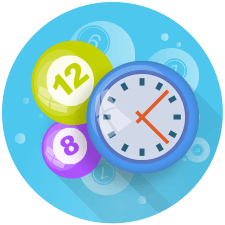
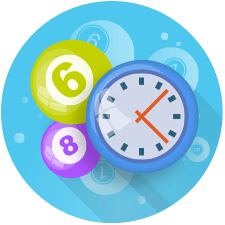
更新彩種icon

diff --git a/static/frist/css/lhc.css b/static/frist/css/lhc.css
@@ -126,7 +126,7 @@
 }*/
 
 /* 上方橫式選單 样式微调 */
-#lhc .lhc_tab.hd { position: relative;v/*right: 0.3rem;*/ height: .9rem; width: 7.1rem; overflow: hidden; margin: 0 auto 0.35rem; border-radius: 0.5rem; /*margin-bottom: 1.1rem;*/}
+#lhc .lhc_tab.hd { position: relative;/*right: 0.3rem;*/ height: .9rem; width: 7.1rem; overflow: hidden; margin: 0 auto 0.35rem; border-radius: 0.5rem; /*margin-bottom: 1.1rem;*/}
 #lhc .lhc_tab.hd ul.tab_mid { 
 	white-space: nowrap; 
 	width: 100% !important;
